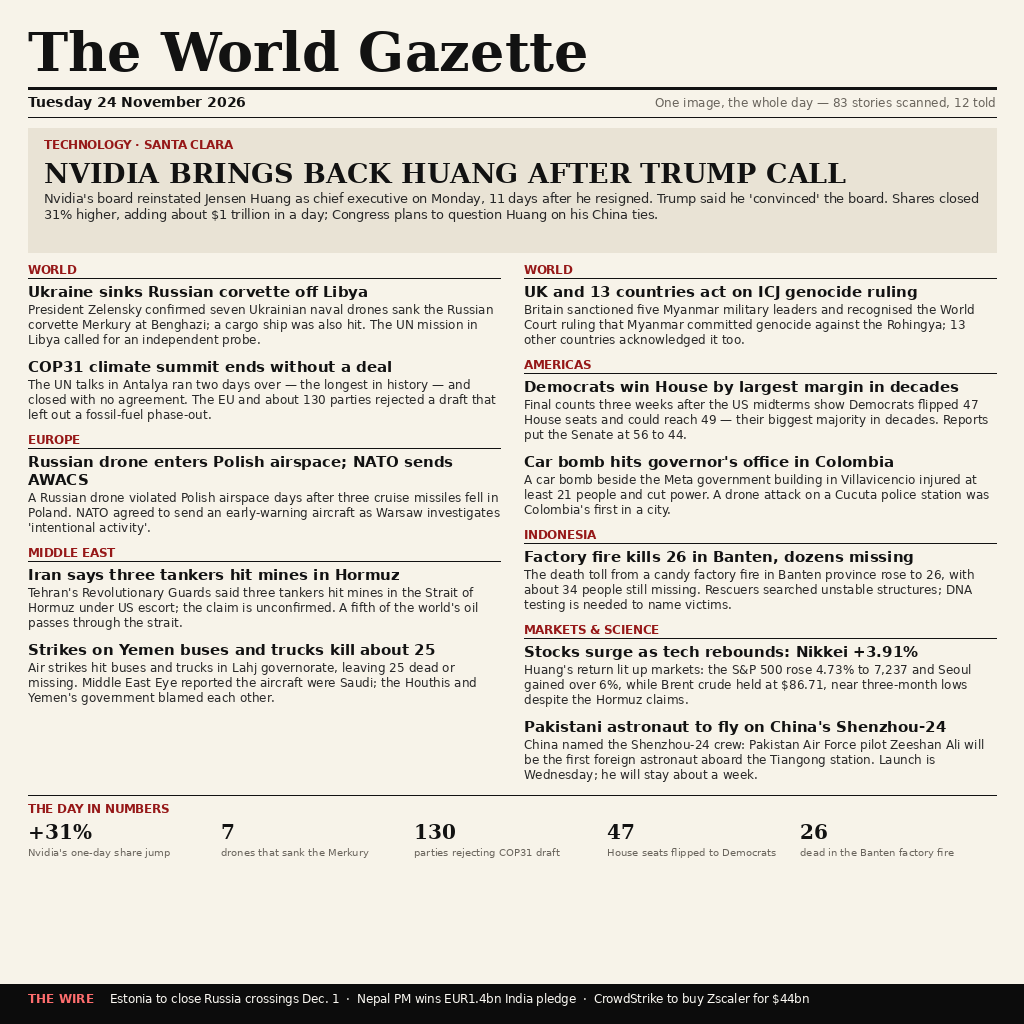
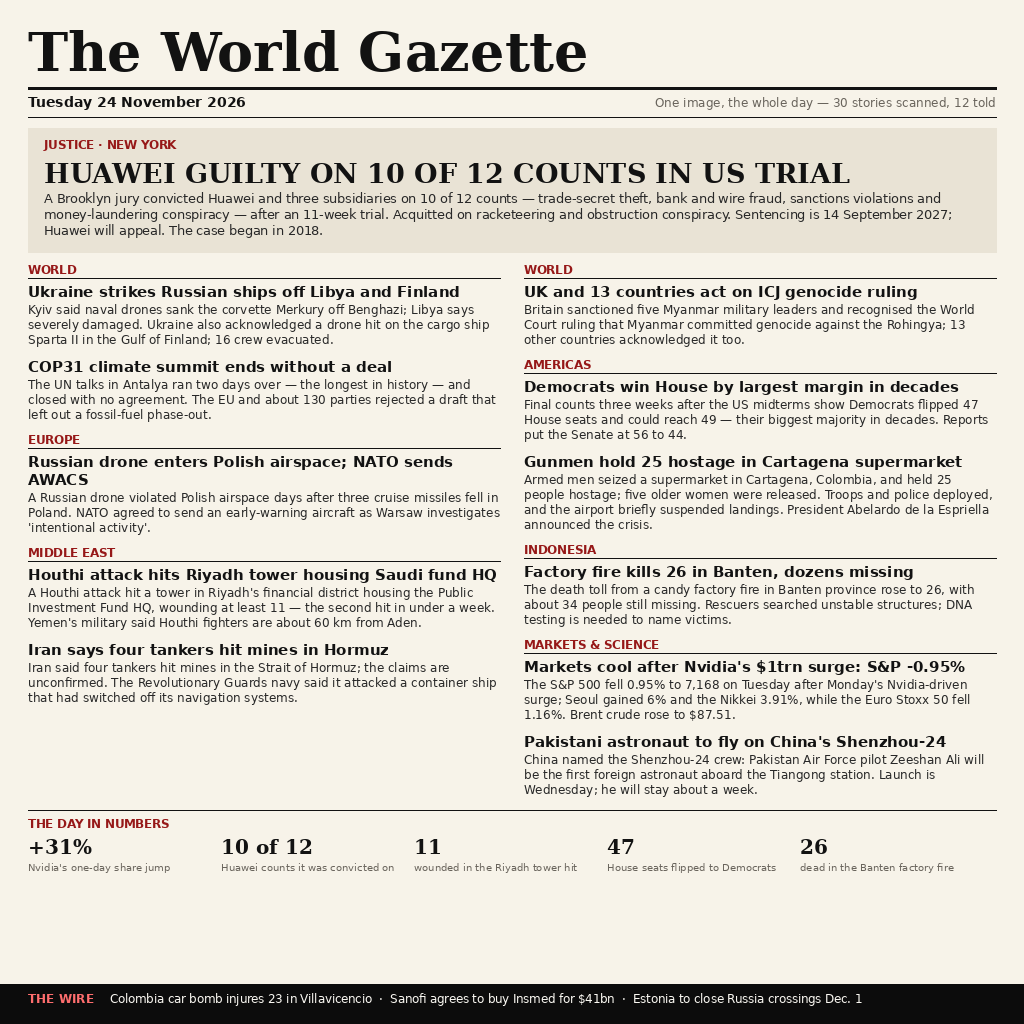
Refresh poster to the full Tuesday 24 November 2026: Huawei verdict, Riyadh PIF tower hit, Hormuz, Cartagena hostages

diff --git a/make_poster.py b/make_poster.py
@@ -5,7 +5,11 @@ Build-time renderer: produces entry.png (1024x1024) next to this file.
 The shipped program (main.ts) never draws; it only copies entry.png.
 All stories and figures are from 24 Nov 2026 reporting (BBC, The Guardian,
 France 24, Al Jazeera, Euronews, Middle East Eye, CNBC, NPR, Yonhap,
-via One Turn's daily roundup, cross-checked with other roundups).
+US DOJ, Reuters, CNN, WSJ, via One Turn's daily roundup, cross-checked
+with other roundups). Refreshed on the morning of 25 Nov with the full
+day's news, including the stories that broke after the first edition:
+the Huawei verdict, the Riyadh PIF tower hit and the Cartagena hostage
+crisis.
 """
 from PIL import Image, ImageDraw, ImageFont
 
@@ -69,7 +73,7 @@ y += 68
 d.line([(MARGIN, y), (MARGIN + W, y)], fill=INK, width=3)
 y += 6
 d.text((MARGIN, y), "Tuesday 24 November 2026", font=F(SANSB, 14), fill=INK)
-sub = "One image, the whole day — 83 stories scanned, 12 told"
+sub = "One image, the whole day — 30 stories scanned, 12 told"
 d.text((MARGIN + W - d.textlength(sub, font=F(SANS, 12)), y + 1), sub,
        font=F(SANS, 12), fill=FAINT)
 y += 23
@@ -81,16 +85,17 @@ lead_end = y + 124
 d.rectangle([(MARGIN, y), (MARGIN + W, lead_end)], fill=BOX)
 lx = MARGIN + 16
 ly = y + 10
-d.text((lx, ly), "TECHNOLOGY · SANTA CLARA", font=F(SANSB, 11.5), fill=ACCENT)
+d.text((lx, ly), "JUSTICE · NEW YORK", font=F(SANSB, 11.5), fill=ACCENT)
 ly += 19
-ly = text_block(lx, ly, "NVIDIA BRINGS BACK HUANG AFTER TRUMP CALL",
+ly = text_block(lx, ly, "HUAWEI GUILTY ON 10 OF 12 COUNTS IN US TRIAL",
                 F(SERIF, 27), W - 32, 32)
 ly += 2
 text_block(lx, ly,
-    "Nvidia's board reinstated Jensen Huang as chief executive on Monday, "
-    "11 days after he resigned. Trump said he 'convinced' the board. Shares "
-    "closed 31% higher, adding about $1 trillion in a day; Congress plans "
-    "to question Huang on his China ties.",
+    "A Brooklyn jury convicted Huawei and three subsidiaries on 10 of 12 "
+    "counts — trade-secret theft, bank and wire fraud, sanctions "
+    "violations and money-laundering conspiracy — after an 11-week trial. "
+    "Acquitted on racketeering and obstruction conspiracy. Sentencing is "
+    "14 September 2027; Huawei will appeal. The case began in 2018.",
     F(SANS, 12.5), W - 32, 16, fill=(40, 40, 40))
 y = lead_end + 11
 
@@ -102,10 +107,10 @@ col_top = y
 # left column: world, europe, middle east
 ly = col_top
 ly = region(x1, ly, "World", col_w)
-ly = story(x1, ly, "Ukraine sinks Russian corvette off Libya",
-    "President Zelensky confirmed seven Ukrainian naval drones sank the "
-    "Russian corvette Merkury at Benghazi; a cargo ship was also hit. "
-    "The UN mission in Libya called for an independent probe.", col_w)
+ly = story(x1, ly, "Ukraine strikes Russian ships off Libya and Finland",
+    "Kyiv said naval drones sank the corvette Merkury off Benghazi; Libya "
+    "says severely damaged. Ukraine also acknowledged a drone hit on the "
+    "cargo ship Sparta II in the Gulf of Finland; 16 crew evacuated.", col_w)
 ly = story(x1, ly, "COP31 climate summit ends without a deal",
     "The UN talks in Antalya ran two days over — the longest in history — "
     "and closed with no agreement. The EU and about 130 parties rejected "
@@ -116,14 +121,15 @@ ly = story(x1, ly, "Russian drone enters Polish airspace; NATO sends AWACS",
     "missiles fell in Poland. NATO agreed to send an early-warning "
     "aircraft as Warsaw investigates 'intentional activity'.", col_w)
 ly = region(x1, ly, "Middle East", col_w)
-ly = story(x1, ly, "Iran says three tankers hit mines in Hormuz",
-    "Tehran's Revolutionary Guards said three tankers hit mines in the "
-    "Strait of Hormuz under US escort; the claim is unconfirmed. A fifth "
-    "of the world's oil passes through the strait.", col_w)
-ly = story(x1, ly, "Strikes on Yemen buses and trucks kill about 25",
-    "Air strikes hit buses and trucks in Lahj governorate, leaving 25 "
-    "dead or missing. Middle East Eye reported the aircraft were Saudi; "
-    "the Houthis and Yemen's government blamed each other.", col_w)
+ly = story(x1, ly, "Houthi attack hits Riyadh tower housing Saudi fund HQ",
+    "A Houthi attack hit a tower in Riyadh's financial district housing "
+    "the Public Investment Fund HQ, wounding at least 11 — the second "
+    "hit in under a week. Yemen's military said Houthi fighters are "
+    "about 60 km from Aden.", col_w)
+ly = story(x1, ly, "Iran says four tankers hit mines in Hormuz",
+    "Iran said four tankers hit mines in the Strait of Hormuz; the claims "
+    "are unconfirmed. The Revolutionary Guards navy said it attacked a "
+    "container ship that had switched off its navigation systems.", col_w)
 left_end = ly
 
 # right column: world (cont.), americas, indonesia, markets & science
@@ -138,20 +144,21 @@ ry = story(x2, ry, "Democrats win House by largest margin in decades",
     "Final counts three weeks after the US midterms show Democrats "
     "flipped 47 House seats and could reach 49 — their biggest majority "
     "in decades. Reports put the Senate at 56 to 44.", col_w)
-ry = story(x2, ry, "Car bomb hits governor's office in Colombia",
-    "A car bomb beside the Meta government building in Villavicencio "
-    "injured at least 21 people and cut power. A drone attack on a "
-    "Cucuta police station was Colombia's first in a city.", col_w)
+ry = story(x2, ry, "Gunmen hold 25 hostage in Cartagena supermarket",
+    "Armed men seized a supermarket in Cartagena, Colombia, and held 25 "
+    "people hostage; five older women were released. Troops and police "
+    "deployed, and the airport briefly suspended landings. President "
+    "Abelardo de la Espriella announced the crisis.", col_w)
 ry = region(x2, ry, "Indonesia", col_w)
 ry = story(x2, ry, "Factory fire kills 26 in Banten, dozens missing",
     "The death toll from a candy factory fire in Banten province rose "
     "to 26, with about 34 people still missing. Rescuers searched "
     "unstable structures; DNA testing is needed to name victims.", col_w)
 ry = region(x2, ry, "Markets & Science", col_w)
-ry = story(x2, ry, "Stocks surge as tech rebounds: Nikkei +3.91%",
-    "Huang's return lit up markets: the S&P 500 rose 4.73% to 7,237 and "
-    "Seoul gained over 6%, while Brent crude held at $86.71, near "
-    "three-month lows despite the Hormuz claims.", col_w)
+ry = story(x2, ry, "Markets cool after Nvidia's $1trn surge: S&P -0.95%",
+    "The S&P 500 fell 0.95% to 7,168 on Tuesday after Monday's "
+    "Nvidia-driven surge; Seoul gained 6% and the Nikkei 3.91%, while "
+    "the Euro Stoxx 50 fell 1.16%. Brent crude rose to $87.51.", col_w)
 ry = story(x2, ry, "Pakistani astronaut to fly on China's Shenzhou-24",
     "China named the Shenzhou-24 crew: Pakistan Air Force pilot Zeeshan "
     "Ali will be the first foreign astronaut aboard the Tiangong "
@@ -168,8 +175,8 @@ d.text((MARGIN, ny), "THE DAY IN NUMBERS", font=F(SANSB, 11.5), fill=ACCENT)
 ny += 18
 nums = [
     ("+31%", "Nvidia's one-day share jump"),
-    ("7", "drones that sank the Merkury"),
-    ("130", "parties rejecting COP31 draft"),
+    ("10 of 12", "Huawei counts it was convicted on"),
+    ("11", "wounded in the Riyadh tower hit"),
     ("47", "House seats flipped to Democrats"),
     ("26", "dead in the Banten factory fire"),
 ]
@@ -184,8 +191,8 @@ ny += 54
 ty = PAGE - 40
 d.rectangle([(0, ty), (PAGE, PAGE)], fill=TICKER_BG)
 d.text((MARGIN, ty + 7), "THE WIRE", font=F(SANSB, 12), fill=(255, 110, 110))
-wire = ("Estonia to close Russia crossings Dec. 1  ·  Nepal PM wins EUR1.4bn India pledge  ·  "
-        "CrowdStrike to buy Zscaler for $44bn")
+wire = ("Colombia car bomb injures 23 in Villavicencio  ·  Sanofi agrees to buy Insmed for $41bn  ·  "
+        "Estonia to close Russia crossings Dec. 1")
 wire_w = d.textlength(wire, font=F(SANS, 11.5))
 assert MARGIN + 82 + wire_w <= PAGE - MARGIN, f"wire too wide: {wire_w}"
 d.text((MARGIN + 82, ty + 8), wire, font=F(SANS, 11.5), fill=WHITE)
